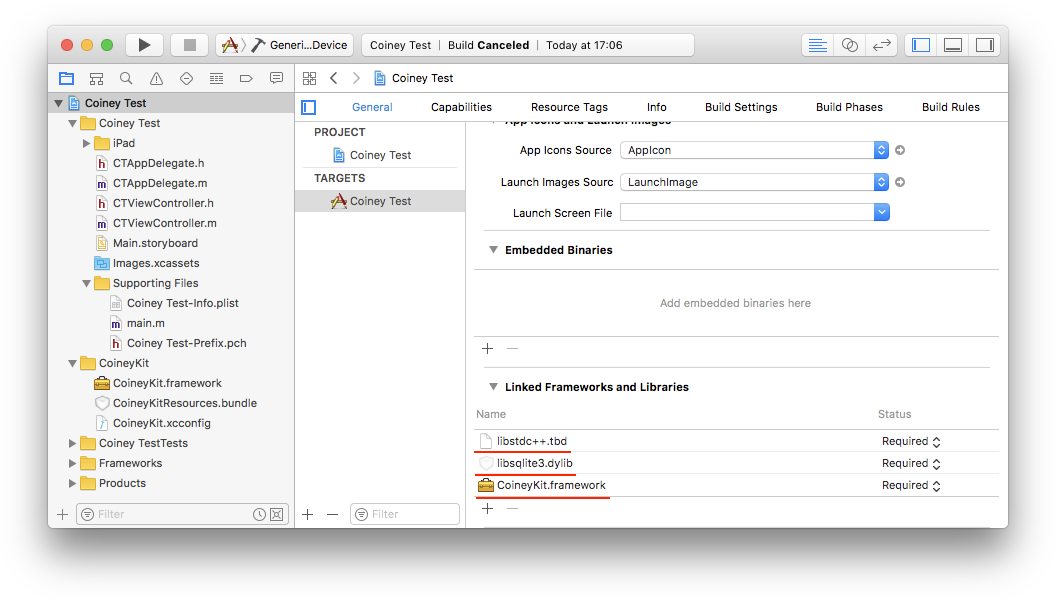
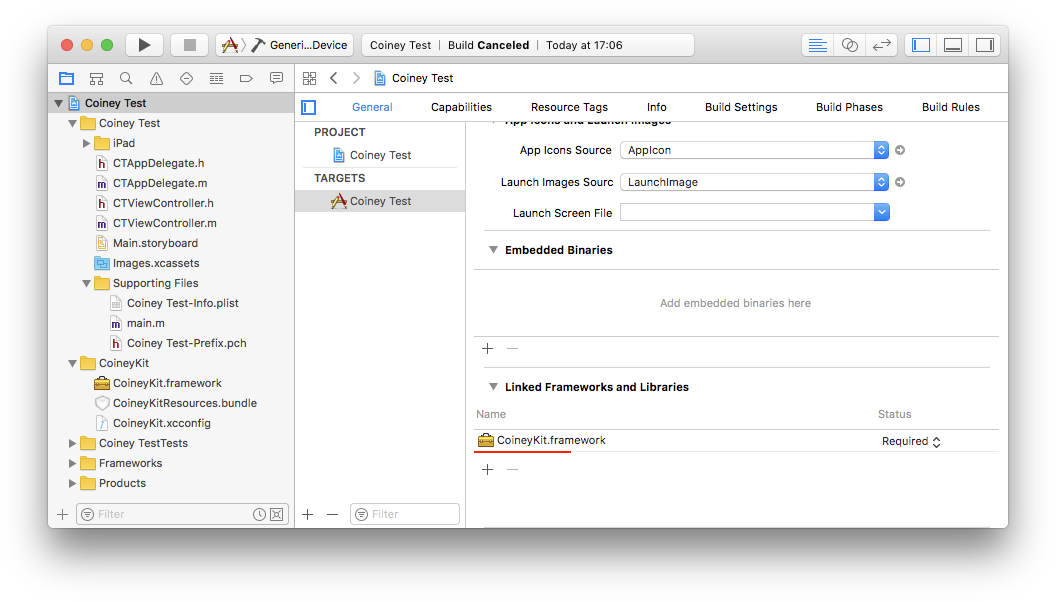
README・リンカー設定更新 (#20)
* Xcodeのバージョンを修正しました。
* -lxml2 の設定が自動でされるように、xcconfig ファイルに移動しました。

Changed region(s): [[0.4375, 0.7176, 0.5938, 0.8372], [0.8438, 0.7475, 0.9062, 0.8372]]

diff --git a/README_en.md b/README_en.md
@@ -19,7 +19,7 @@ You can find complete sample apps, written in Swift and Objective-C, in the `Exa
  This repository uses git-lfs. Please install it using homebrew or download it from here: <https://git-lfs.github.com>.
 
  * CoineyKit (Clone this repo after installing git-lfs.)
- * Xcode 9
+ * Xcode 10
  * Coiney Terminal; to purchase one, please contact us at <coineykitsupport@coiney.com>.
 
 ## Setting up your project
@@ -39,9 +39,7 @@ Drag and drop `CoineyKit.xcconfig` and `CoineyKitResources.bundle` into the proj
 
 ![Configurations](.readme_images/configuration.png)
 
-Go to your target's General settings, and add `CoineyKit.framework`, as well as the following:
-
- * libxml2.tbd
+Go to your target's General settings, and add `CoineyKit.framework` to "Linked Frameworks and Libraries."
 
 ![Libraries and Frameworks](.readme_images/frameworks-libs.png)
 
